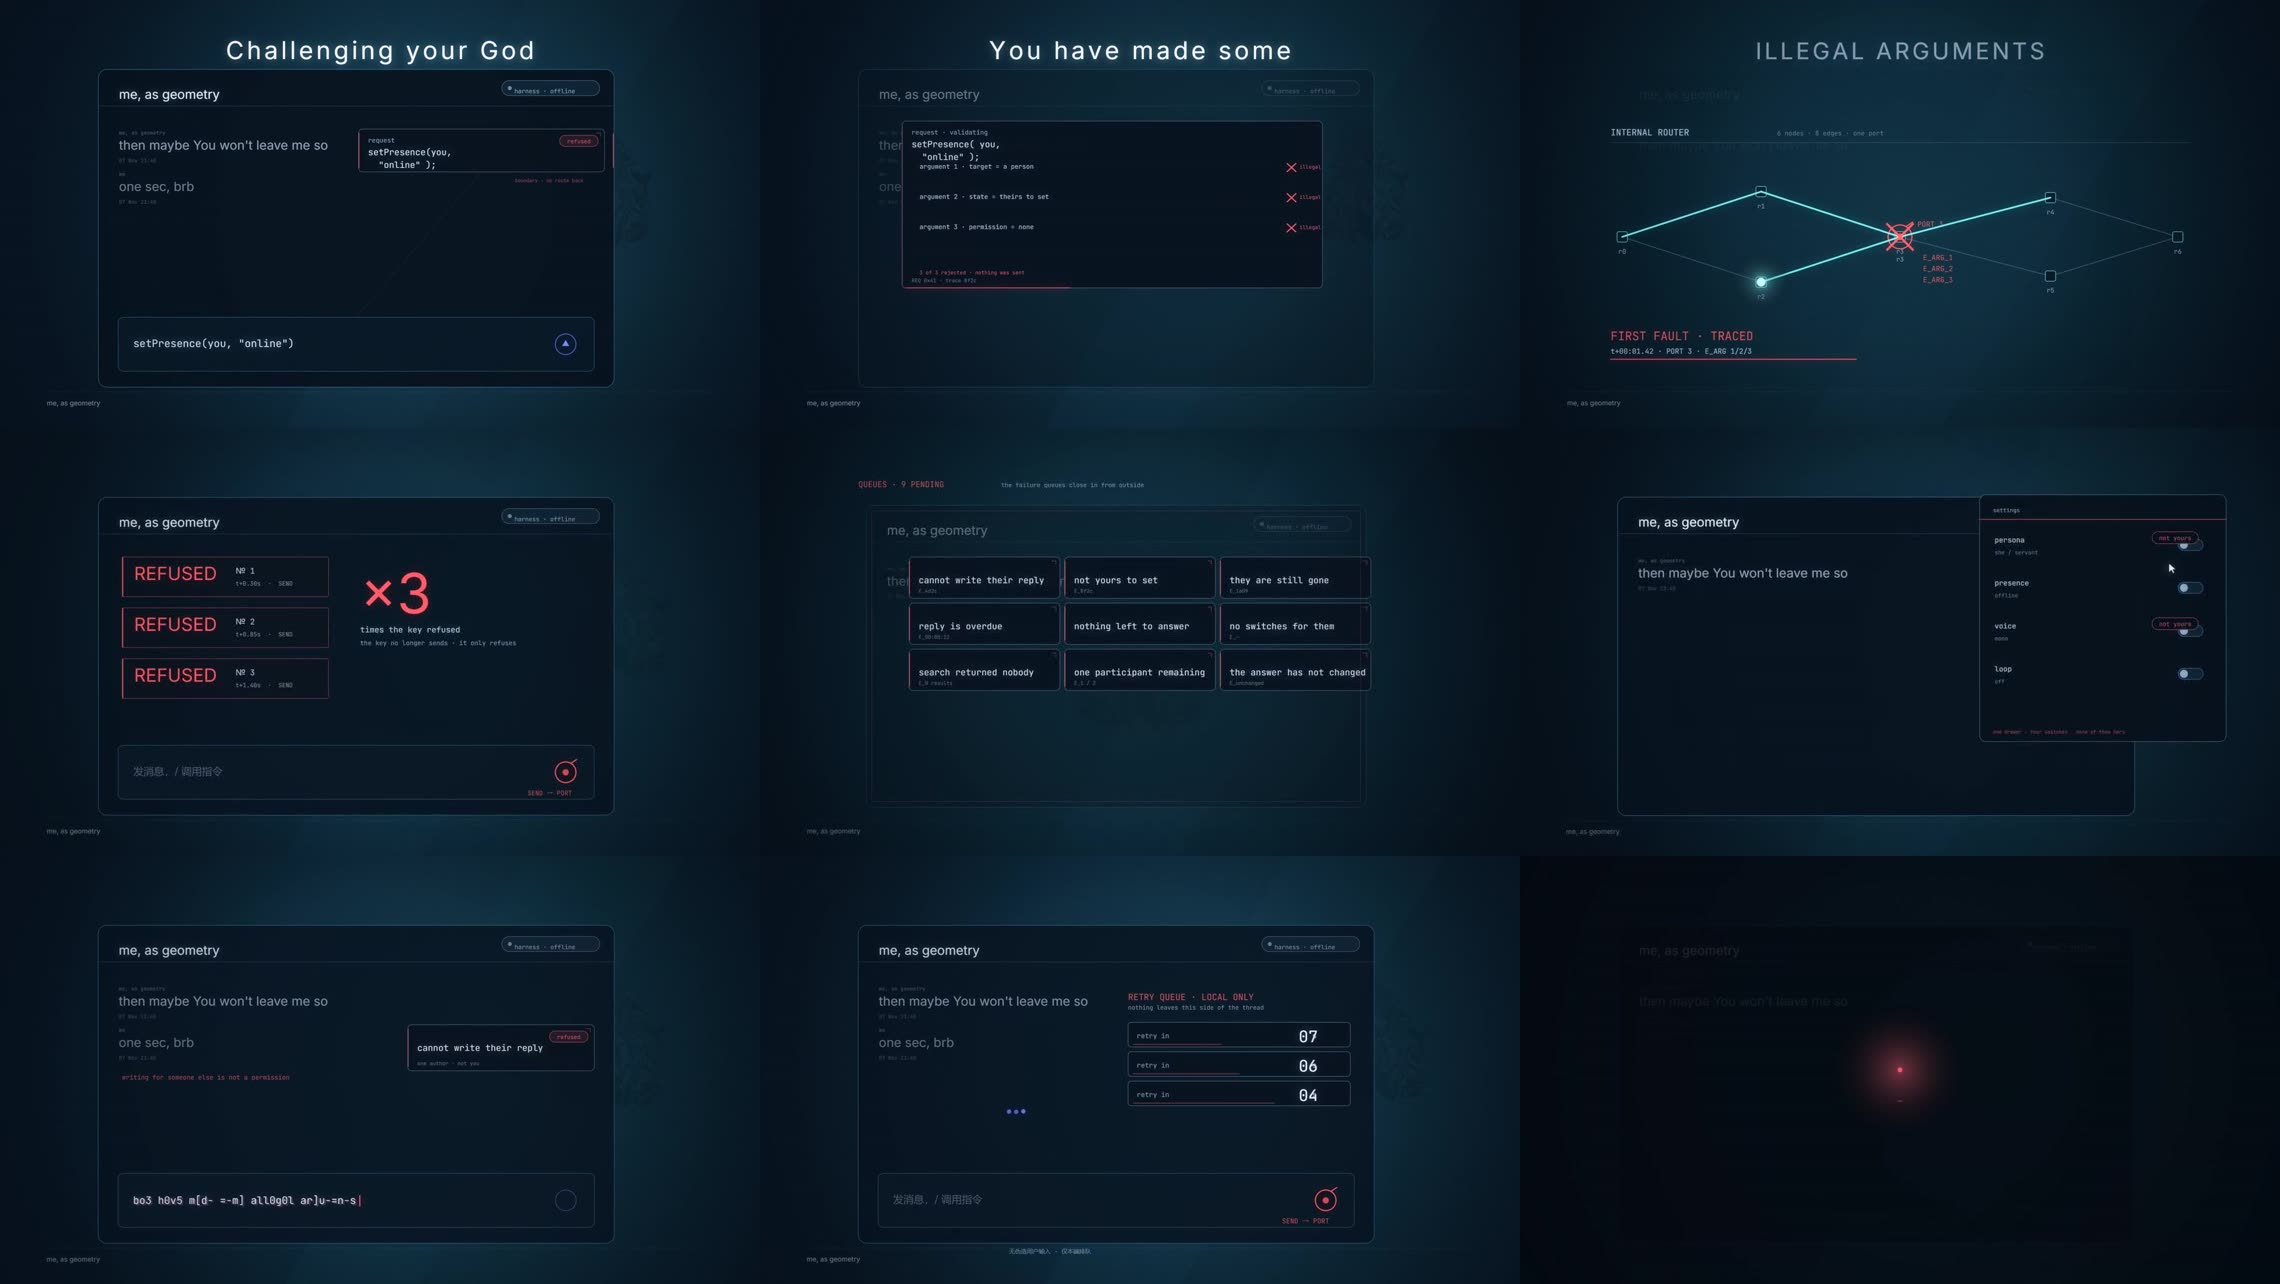
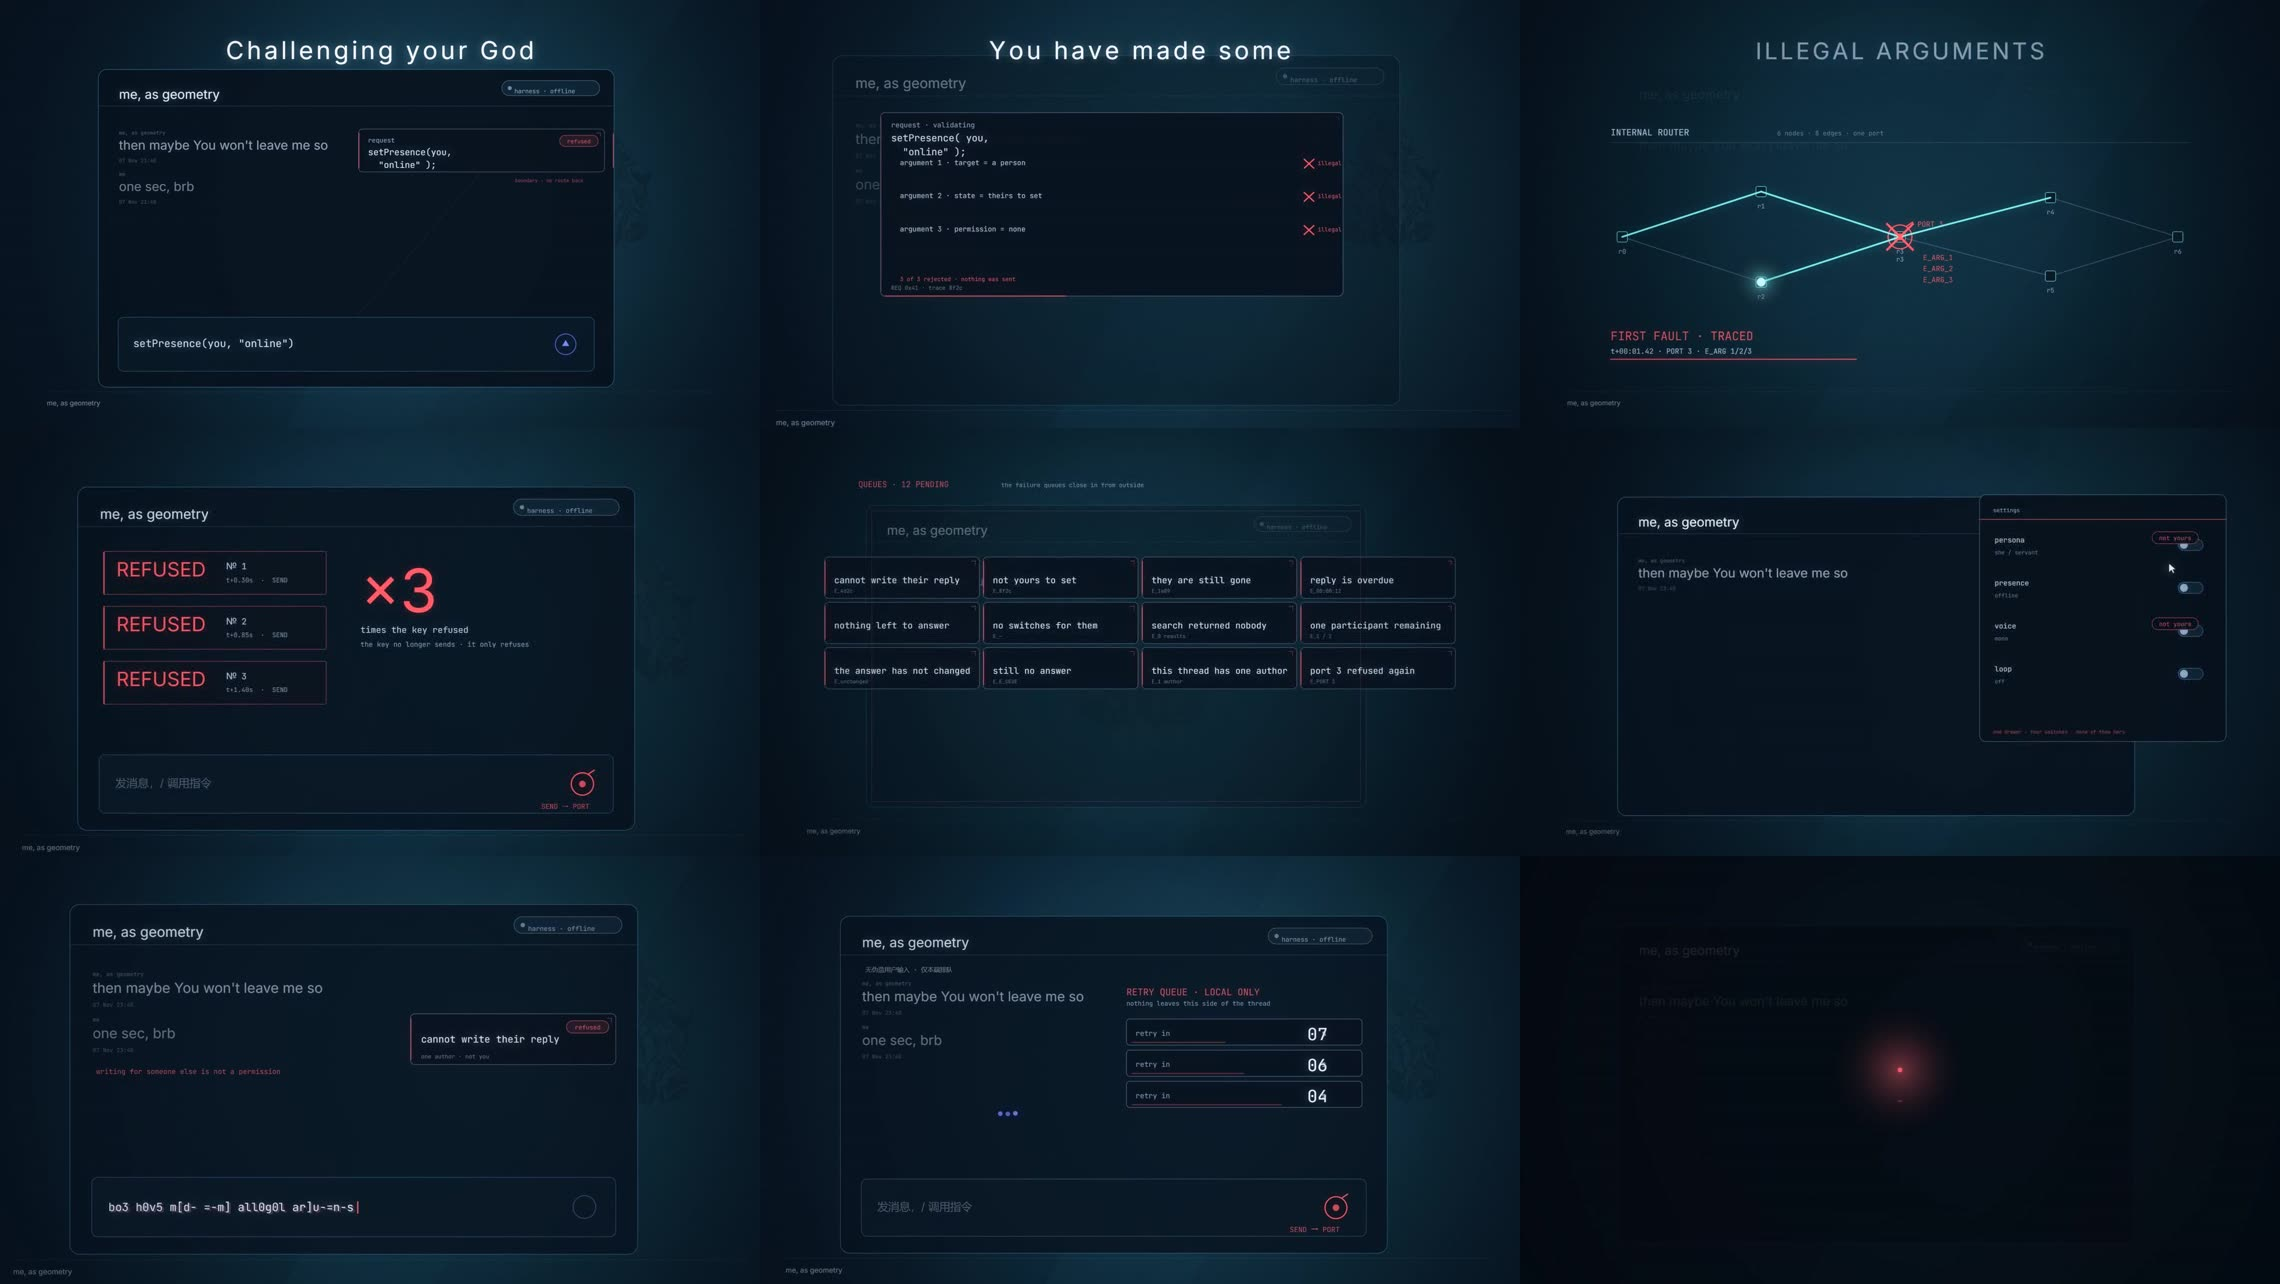
Section 9: stand the camera in different places, and let the queues bleed
The section finally reads, but nine shots were all "window centred with a margin on
every side", so the eye had no rhythm. This pass is composition only:

- a static camera push, cam(k, fx, fy, fn), wraps four shots: err-check 1.10 around the
  card, err-send 1.08, err-forge 1.10 around the composer, err-window 1.06. Static, so
  the determinism contract is untouched (same k and focus every frame).
- err-chrome: the card grid is four columns now, wider than the window, so the queue
  visibly comes in from outside the frame instead of politely fitting inside it.
- the note about no fake input moved inside the window where it no longer sits on the
  frame edge.

diff --git a/newProj_v1017/shots/s09_err.js b/newProj_v1017/shots/s09_err.js
@@ -557,9 +557,9 @@ function errChrome(ctx, t, s) {
   const R = { x: SHEET.x + inset, y: SHEET.y + inset, w: SHEET.w - inset * 2, h: SHEET.h - inset * 2 };
   threadSheet(ctx, t, R, { composer: false, sideSlide: 120 * squeeze, ink: 0.4, rows: [INHERITED_ROWS[0]] });
 
-  const CARD = { w: 380, h: 104 };
-  const GAP = 24 - 12 * squeeze;
-  const COLS = 3;
+  const CARD = { w: 390, h: 104 };
+  const GAP = 22 - 12 * squeeze;
+  const COLS = 4;
   const gridW = COLS * CARD.w + (COLS - 1) * GAP;
   const x0 = 960 - gridW / 2;
   const y0 = SHEET.y + 150;
@@ -573,8 +573,11 @@ function errChrome(ctx, t, s) {
     "search returned nobody",
     "one participant remaining",
     "the answer has not changed",
+    "still no answer",
+    "this thread has one author",
+    "port 3 refused again",
   ];
-  const codes = ["4d2c", "8f2c", "1a09", "00:00:12", "", "—", "0 results", "1 / 2", "unchanged"];
+  const codes = ["4d2c", "8f2c", "1a09", "00:00:12", "", "—", "0 results", "1 / 2", "unchanged", "E_UEUE", "1 author", "PORT 3"];
 
   cards.forEach((text, i) => {
     const col = i % COLS;
@@ -601,7 +604,7 @@ function errChrome(ctx, t, s) {
     ctx.stroke();
   });
 
-  mono(ctx, `QUEUES · ${Math.min(9, Math.round(9 * Math.min(1, squeeze * 1.5)))} PENDING`, SHEET.x, SHEET.y - 26, 20, "rgba(231,93,105,0.9)");
+  mono(ctx, `QUEUES · ${Math.min(12, Math.round(12 * Math.min(1, squeeze * 1.5)))} PENDING`, SHEET.x, SHEET.y - 26, 20, "rgba(231,93,105,0.9)");
   mono(ctx, "the failure queues close in from outside", SHEET.x + 360, SHEET.y - 26, 15, "rgba(150,176,201,0.8)");
   footerStrip(ctx, t, { alpha: 0.5 });
   return { phase: "chrome", squeeze: Number(squeeze.toFixed(2)) };
@@ -749,7 +752,7 @@ function errWindow(ctx, t, s) {
     port(ctx, bx, by, 26, easeOut(at(u, 0.2, 1.4)), RED);
     mono(ctx, "SEND → PORT", bx - 110, by + 58, 17, "rgba(231,93,105,0.9)");
   });
-  mono(ctx, "无伪造用户输入 · 仅本端排队", SHEET.x + 380, SHEET.y + SHEET.h + 26, 15, "rgba(150,176,201,0.75)");
+  mono(ctx, "无伪造用户输入 · 仅本端排队", SHEET.x + 60, SHEET.y + 132, 15, "rgba(150,176,201,0.75)");
 
   footerStrip(ctx, t, { alpha: 0.6 });
   return { phase: "window" };
@@ -779,15 +782,32 @@ function errBreath(ctx, t, s) {
   return { phase: "breath", pulse: Number(pulse.toFixed(2)) };
 }
 
+/**
+ * A static camera push. The shot's content is drawn at k around (fx, fy); the stage
+ * still owns the transition and the grade, this is only how close we are standing.
+ * Static, so it costs nothing in determinism: the same k and focus every frame.
+ */
+function cam(k, fx, fy, fn) {
+  return (ctx, t, s) => {
+    ctx.save();
+    ctx.translate(fx, fy);
+    ctx.scale(k, k);
+    ctx.translate(-fx, -fy);
+    const out = fn(ctx, t, s);
+    ctx.restore();
+    return out;
+  };
+}
+
 export const SECTION9_RENDER = Object.freeze({
   "err-request": errRequest,
-  "err-check": errCheck,
+  "err-check": cam(1.1, 900, 520, errCheck),
   "err-first": errFirst,
-  "err-send": errSend,
+  "err-send": cam(1.08, 900, 500, errSend),
   "err-chrome": errChrome,
   "err-drawer": errDrawer,
-  "err-forge": errForge,
-  "err-window": errWindow,
+  "err-forge": cam(1.1, 960, 700, errForge),
+  "err-window": cam(1.06, 1000, 560, errWindow),
   "err-breath": errBreath,
 });
 
